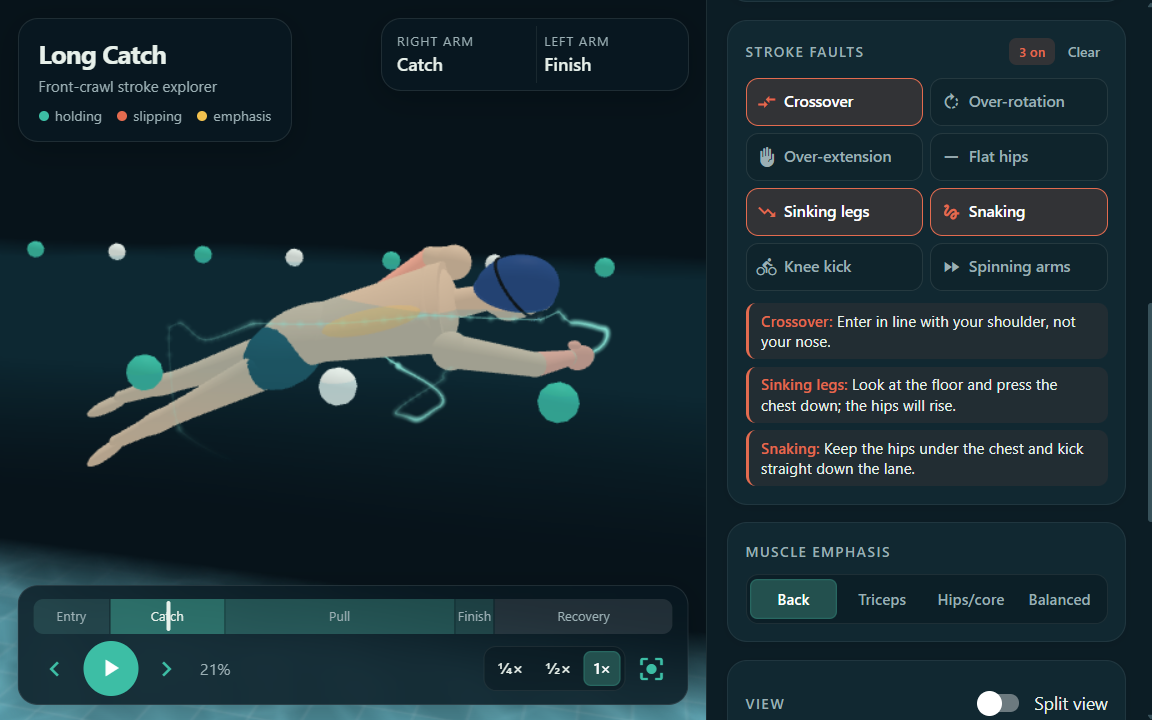
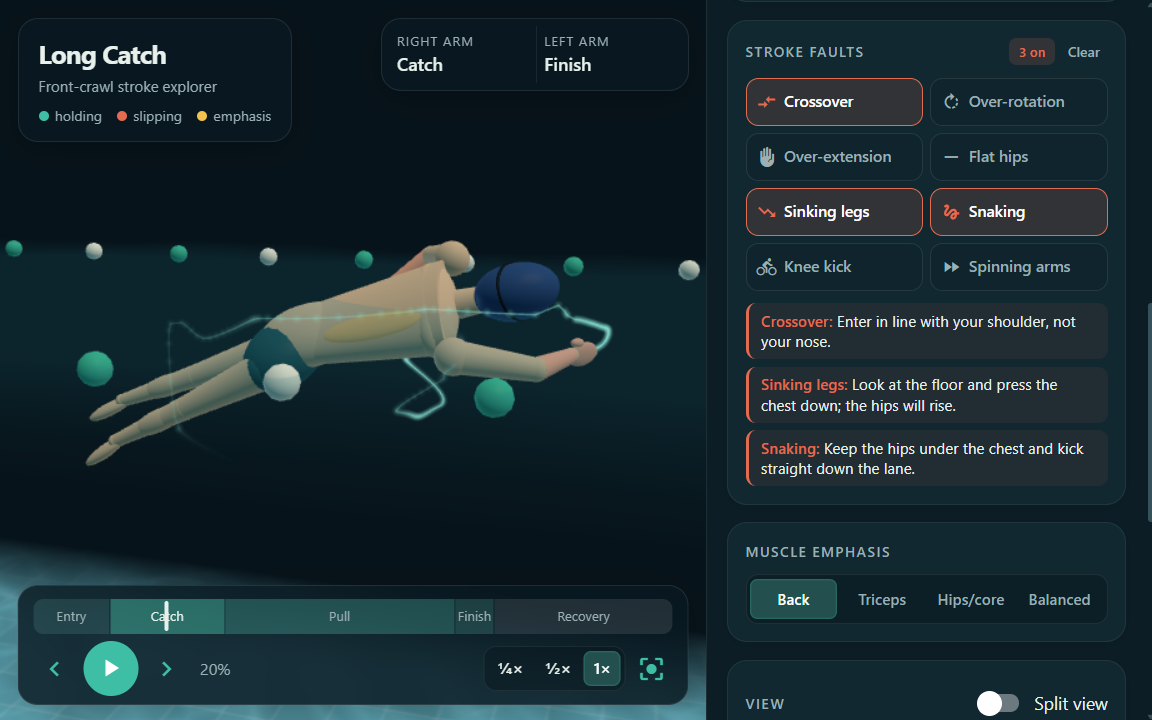
feat: three-light pool rig and source-aligned breath timing
Replace NiceGUI's flat default lights with a hemisphere fill, a warm key light, and a cool rim light (no shadows). Turn the head to breathe as the arm starts its recovery and return it by the end of the recovery, per standard front-crawl technique. Refresh README screenshots and features.

diff --git a/long_catch/static/engine.js b/long_catch/static/engine.js
@@ -125,12 +125,13 @@ window.LongCatch = window.LongCatch || (() => {
   // Visual only: these never touch the phase, the timeline, or the Python metrics.
   // Variation is keyed to stroke time (cycles + phase), so it holds still while paused.
 
-  // Bilateral breathing every third stroke. The head turns with the roll as the breathing-side
-  // arm pulls through and finishes, and is back down before that hand enters again.
+  // Bilateral breathing every third stroke (one breath per 1.5 cycles, alternating sides). The head
+  // turns toward the arm as it finishes and starts its recovery, then rotates back down by the end
+  // of the recovery, before that hand enters again.
   // Returns -1..1: negative turns the face to the right (-y), positive to the left.
   function breathing(P) {
     const t = S.cycles + S.phase, exit = P.exit;
-    const turnWindow = p => keyed(p, [[exit - 0.36, 0], [exit - 0.16, 1], [exit + 0.03, 1], [exit + 0.18, 0]]);
+    const turnWindow = p => keyed(p, [[exit - 0.22, 0], [exit - 0.04, 1], [exit + 0.08, 1], [exit + 0.2, 0]]);
     const breathes = n => ((n % 3) + 3) % 3 === 0;  // n counts hand entries: right even, left odd
     const right = breathes(2 * Math.floor(t)) ? turnWindow(S.phase) : 0;
     const left = breathes(2 * Math.floor(t - 0.5) + 1) ? turnWindow((S.phase + 0.5) % 1) : 0;
@@ -286,7 +287,7 @@ window.LongCatch = window.LongCatch || (() => {
     S.trailReset = false;
   }
 
-  // ---- water ------------------------------------------------------------------
+  // ---- water and lighting -----------------------------------------------------
 
   // Surface: a fine grid with a gentle travelling swell, a small bow wave at the head, and a soft sheen.
   // Floor: tiles and two layers of drifting caustics, well below the swimmer.
@@ -357,7 +358,21 @@ window.LongCatch = window.LongCatch || (() => {
     g.putImageData(img, 0, 0);
   }
 
-  // Build the surface waves and the pool floor once per scene; returns false until THREE has loaded.
+  // Replace NiceGUI's flat default lights (strong ambient + one overhead light) with a simple pool rig:
+  // a sky/pool hemisphere fill, a warm key light from above, and a cool rim light from behind
+  // that separates the swimmer from the dark background. No shadows, so rendering cost is unchanged.
+  function setupLighting(group) {
+    for (const light of S.el.scene.children.filter(o => o.isAmbientLight || o.isDirectionalLight)) {
+      S.el.scene.remove(light);
+    }
+    const key = new THREE.DirectionalLight(0xfff1dc, 1.7);
+    key.position.set(3, -2.5, 6);
+    const rim = new THREE.DirectionalLight(0x86dcff, 0.6);
+    rim.position.set(-4, 3, -1.5);
+    group.add(new THREE.HemisphereLight(0xfff6ea, 0x5a8f96, 1.7), key, rim);
+  }
+
+  // Build the surface waves, pool floor, and lights once per scene; returns false until THREE has loaded.
   function setupWater(m) {
     if (m.pool) return true;
     if (!THREE) return false;
@@ -397,6 +412,7 @@ window.LongCatch = window.LongCatch || (() => {
       return map;
     });
     scene.add(pool);
+    setupLighting(pool);
     m.pool = { tiles, caustics, time: 0 };
     return true;
   }

diff --git a/README.md b/README.md
@@ -47,7 +47,8 @@ external services or network assets.
 | **Water feedback** | Hands and forearms turn teal when holding water and coral when slipping. Amber shows the selected muscle emphasis. |
 | **Cameras** | Orbit freely, or add a second Top, Side, Front or Below view in split view. |
 | **Pool** | A gently moving water surface with a bow wave at the head, over a tiled floor with drifting caustics. |
-| **Natural motion** | Bilateral breathing every third stroke, a steady head, a slight body heave, and small stroke-to-stroke and kick-to-kick variation. Visual only; the metrics are unaffected. |
+| **Lighting** | A soft sky-and-pool fill, a warm main light from above and a cool rim light from behind, so the swimmer reads in 3D against the dark water. No shadows, so it stays light to render. |
+| **Natural motion** | Breathing every third stroke on alternating sides: the head turns as that arm starts its recovery and is back down before the hand enters. Also a steady head, a slight body heave, and small stroke-to-stroke and kick-to-kick variation. Visual only; the metrics are unaffected. |
 | **Motion trails** | Fading trails for the hands, feet or both, adjustable from 0.5 to 5 seconds. |
 | **Stroke metrics** | Distance per stroke, strokes per 25 m and time per 25 m, updated live. |
 | **Timeline** | Scrub or step through entry, catch, pull, finish and recovery, at ¼×, ½× or 1× speed. |
@@ -127,7 +128,7 @@ ruff format --check .      # formatting
 - **`long_catch/app.py`**: the NiceGUI page. It owns the settings and sends
   the render parameters to the browser.
 - **`long_catch/static/engine.js`**: the browser animation loop. It owns the
-  live phase, joint solving, cameras and trails.
+  live phase, joint solving, cameras, trails, water and lighting.
 - **`long_catch/swimmer.py`**: builds the procedural swimmer and pool from
   NiceGUI scene primitives.
 
